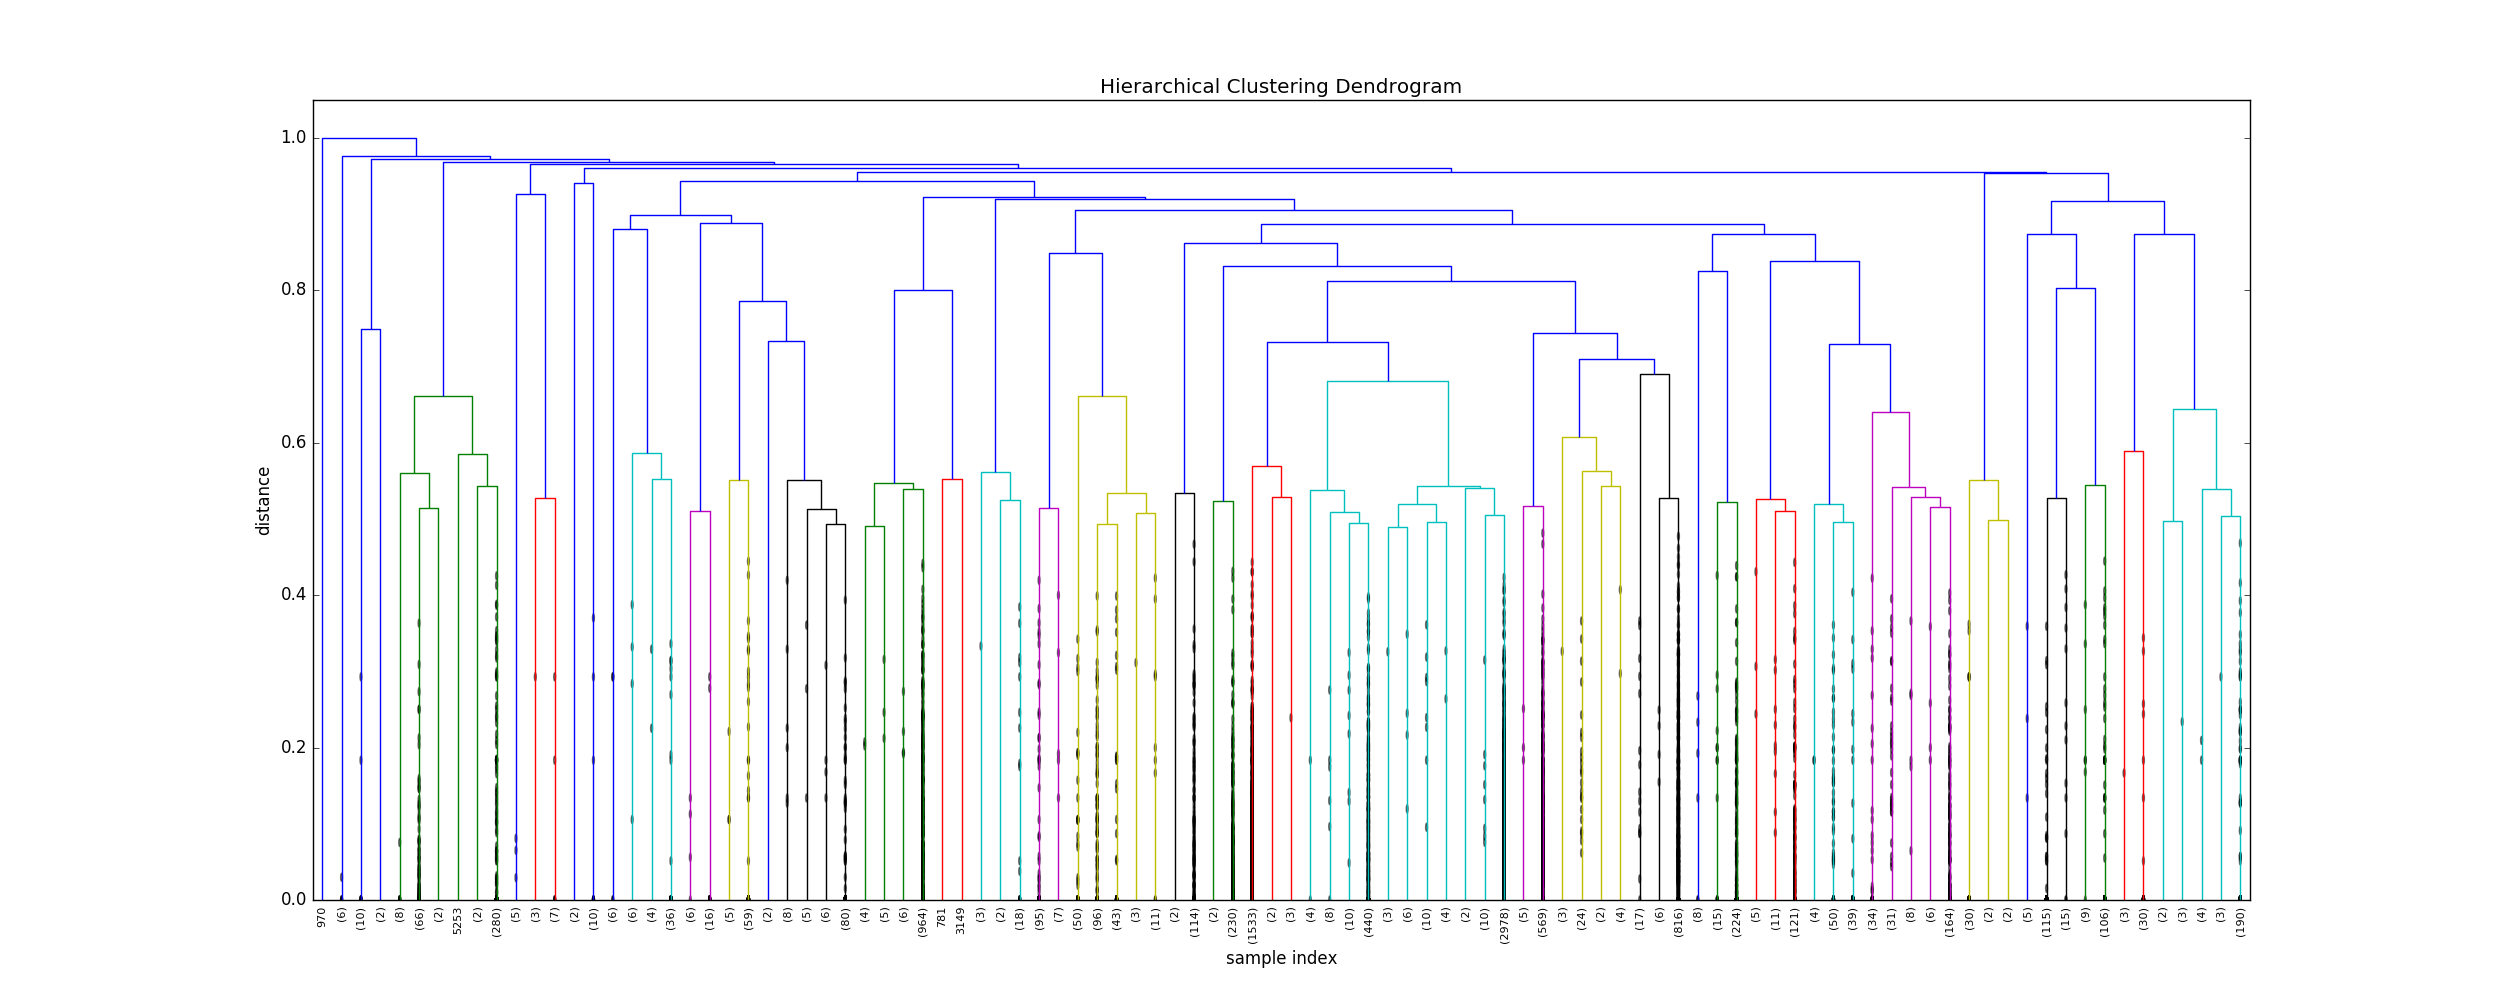
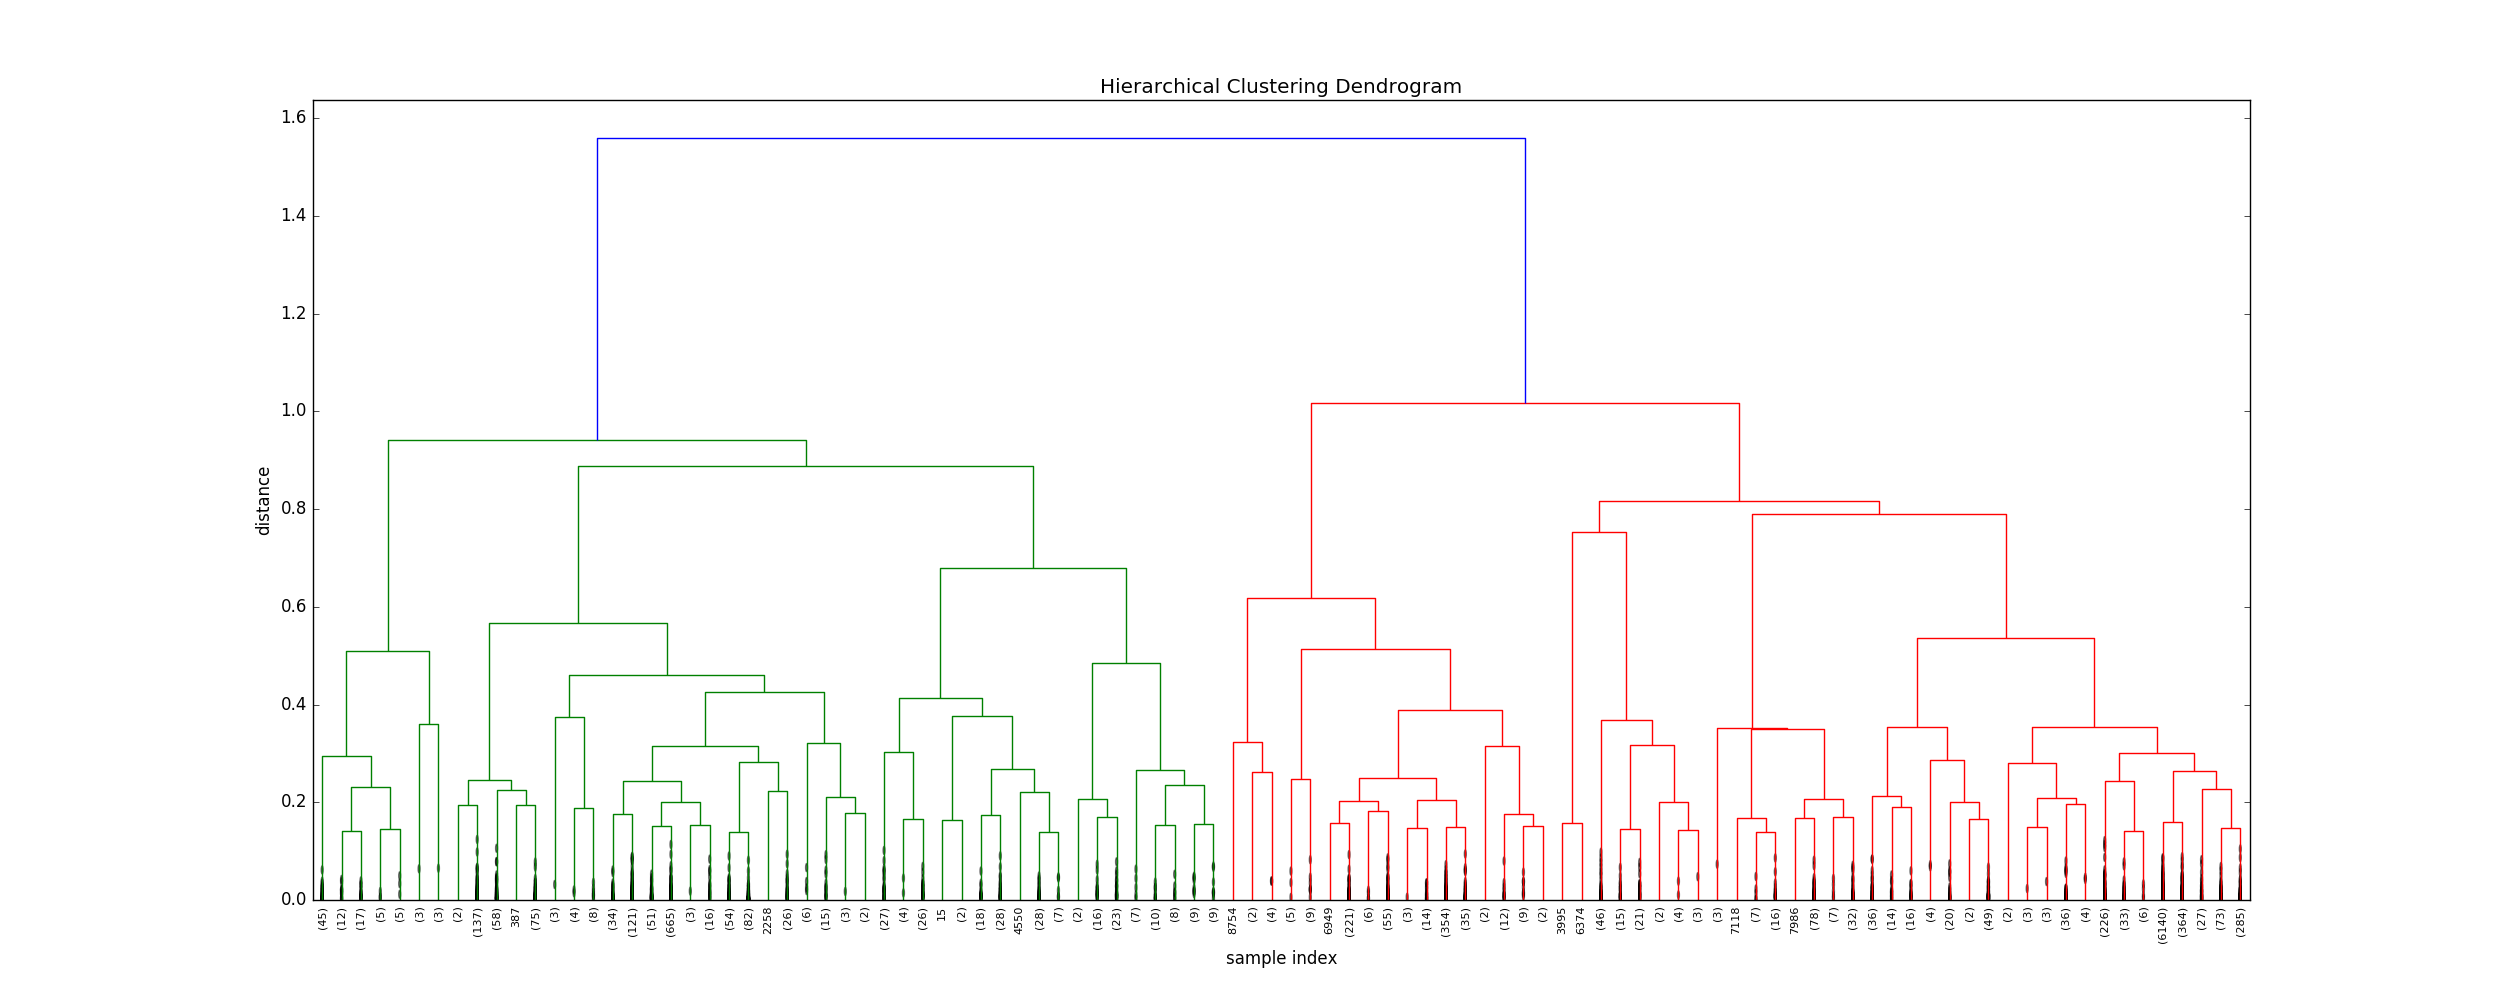
Added PCA, run PCA with 5 components.

diff --git a/AlgorithmManager.py b/AlgorithmManager.py
@@ -1,6 +1,7 @@
 import warnings
 warnings.filterwarnings('ignore', 'numpy not_equal will not check object identity in the future')
 from sklearn.cluster import KMeans
+from sklearn.decomposition import PCA
 #from sklearn.cluster import AgglomerativeClustering as hc
 from sklearn.metrics import silhouette_samples, silhouette_score
 from time import clock
@@ -240,22 +241,45 @@ class AlgorithmManager(object):
         print('Correct: {}'.format(correct))
         print('Accuracy: {}'.format(float(correct)/float(len(test)-batch_size-1)))
 
+    def runPCA(self,data, n_components='mle', plot=False):
+        pca = PCA(n_components, copy=True)
+        # Plot the PCA spectrum
+        print "Running PCA"
+        startTime = clock()
+        new_data = pca.fit_transform(data)
+        print "finished running after {0} secs".format(clock()-startTime)
+        if plot!=False:
+            plt.figure(1, figsize=(4, 3))
+            plt.clf()
+            plt.axes([.2, .2, .7, .7])
+            plt.plot(pca.explained_variance_, linewidth=2)
+            plt.axis('tight')
+            plt.xlabel('n_components')
+            plt.ylabel('explained_variance_')
+        return new_data
     '''
         Runs K means on the Dataset
         Goes over K=2:5 and checks the performance using slihouette
     '''
-    def runKMeans(self, pivot, file = False, normalize = False, factor = 100):
+    def runKMeans(self, pivot, file = False, normalize = False, factor = 100, n_components=False):
         
         # Preparing the data : loading, normalizing (if selected) and selecting 100k record randomly.
         data = self.loadOperationsByOneOfK(False, pivot, normalize, factor)
         np.random.shuffle(data)
         #data = data[1:50000,:] # Higher amount of vectors cause memory error on silhouette_score
-        
+
         # Preparing the data to compare, creating an average vector of the pivots.
-        avgVec = np.mean(data,axis = 0)        
-        fid = open(file, 'w')
-        np.set_printoptions(precision=3,suppress = True) # Prettier printing.
-        fid.write(str(avgVec))
+        if file!= False:
+            avgVec = np.mean(data,axis = 0)        
+            fid = open(file, 'w')
+            np.set_printoptions(precision=3,suppress = True) # Prettier printing.
+            fid.write(str(avgVec))
+
+        if n_components != False:
+            data = self.runPCA(data,n_components)
+
+        
+        
 
         for n_clusters in range(2,25):
             print "Running KMeans on {0} Clusters".format(n_clusters)
@@ -288,7 +312,11 @@ class AlgorithmManager(object):
             
             #fid.write("For {0} clusters the average silhouette score is : {1}".format(n_clusters, silhouette_avg))
 
-    def runHierarchicalClustering(self,file,pivot='Aid',normalize=False,factor=100):        
+    '''
+        Runs Hirarchical Clustering on the Dataset,
+        Creating a Dendrogram visualizing the clustering process for further analysis.
+    '''
+    def runHierarchicalClustering(self,file,n_clusters=2, pivot='Aid',normalize=False,factor=100, n_components=False):        
         print 'Running hierarchical clustering'
 
         # Preparing the data : loading, normalizing (if selected) and selecting 100k record randomly.
@@ -303,47 +331,31 @@ class AlgorithmManager(object):
             np.set_printoptions(precision=3,suppress = True) # Prettier printing.
             fid.write(str(avgVec))
 
-        for n_clusters in range(2,3):  
-            # Compute clustering           
-            print("Running hierarchical clustering for {0} clusters".format(n_clusters))
-            st = clock()
-            ward = linkage(data, 'average', metric = 'cosine')
-
-            # calculate the dendrogram
-            plt.figure(figsize=(25, 10))
-            plt.title('Hierarchical Clustering Dendrogram')
-            plt.xlabel('sample index')
-            plt.ylabel('distance')
-            dendrogram(
-                ward,
-                leaf_rotation=90.,  # rotates the x axis labels
-                leaf_font_size=8.,  # font size for the x axis labels
-                truncate_mode='lastp',  # show only the last p merged clusters
-                p=100,  # show only the last p merged clusters
-                show_leaf_counts=True,  # False = numbers in brackets are counts               
-                show_contracted=True,  # to get a distribution impression in truncated branches
-            )
-            plt.savefig("plot{0}{1}.png".format(pivot,n_clusters))
-            '''
-            ward = hc(n_clusters, linkage='ward').fit(data)
-            elapsed_time = clock() - st
-            label = ward.labels_
-
-            for i in range(n_clusters):
-                cluster_i_size = 0
-                for val in label:
-                    if val == i:
-                        cluster_i_size = cluster_i_size + 1
-                if file != False:               
-                    fid.write("\nThe size of cluster {0} is {1}".format(i,cluster_i_size))
-                else
-                    print("\nThe size of cluster {0} is {1}".format(i,cluster_i_size))
-
-            if file != False:
-                #fid.write("\nThe inertia is {0}\n\n".format(clusterer.inertia_))
-                fid.write("\n")           
-                fid.write("\n\n")
-            '''
+        if n_components != False:
+            data = self.runPCA(data,n_components)
+         
+        # Compute clustering           
+        print("Running hierarchical clustering for {0} clusters".format(n_clusters))
+        startTime = clock()
+        ward = linkage(data, 'average', metric = 'cosine')
+        print("finished running after {0} secs".format(clock()-startTime))
+        # calculate the dendrogram
+        plt.figure(figsize=(25, 10))
+        plt.title('Hierarchical Clustering Dendrogram')
+        plt.xlabel('sample index')
+        plt.ylabel('distance')
+        dendrogram(
+            ward,
+            leaf_rotation=90.,  # rotates the x axis labels
+            leaf_font_size=8.,  # font size for the x axis labels
+            truncate_mode='lastp',  # show only the last p merged clusters
+            p=100,  # show only the last p merged clusters
+            show_leaf_counts=True,  # False = numbers in brackets are counts               
+            show_contracted=True,  # to get a distribution impression in truncated branches
+            count_sort = 'descendent',
+            distance_sort = False
+        )
+        plt.savefig("plot{0}{1}attempt.png".format(pivot,n_clusters))        
 
     '''
         Utility function for clustering.

diff --git a/main.py b/main.py
@@ -13,9 +13,10 @@ nadavfile = "attempt2.txt"
 
 dataManager = DataManager(liorDir)
 algorithmManager = AlgorithmManager(dataManager)
-#algorithmManager.runHierarchicalClustering(file="HierarchicalClusteringAttempt1.txt", normalize = False)
-algorithmManager.runHierarchicalClustering(pivot='Sid', file=False, normalize = False)
-
+#algorithmManager.runHierarchicalClustering(file="HierarchicalClusteringAttempt1.txt", normalize = False,n_components=5)
+#algorithmManager.runHierarchicalClustering(pivot='Sid', file=False, normalize = False,n_components = 5)
+#data = algorithmManager.loadOperationsByOneOfK(False, pivot="Aid", normalize=False)
+#algorithmManager.runPCA(data,n_components=5,plot=True)
 '''
     Trying to recover the ndarray
 
@@ -29,15 +30,15 @@ vects = np.fromfile(nadavfile, dtype = AidArray)
 print "\n\n\n The data recovered:\n\n"
 print(vects[1:10])
 '''
-'''
-algorithmManager.runKMeans(pivot = 'Aid', file="AidcentersNoSil1.txt", normalize = False)
-algorithmManager.runKMeans(pivot = 'Aid', file="AidcentersNoSil2.txt", normalize = True)
-algorithmManager.runKMeans(pivot = 'Sid', file="SidcentersNoSil3.txt", normalize = False)
-algorithmManager.runKMeans(pivot = 'Sid', file="SidcentersNoSil4.txt", normalize = True)
-'''
+
+#algorithmManager.runKMeans(pivot = 'Aid', file="AidcentersNoSil1.txt", normalize = False)
+#algorithmManager.runKMeans(pivot = 'Aid', file="AidcentersNoSil2.txt", normalize = True)
+#algorithmManager.runKMeans(pivot = 'Sid', file="SidcentersNoSil3.txt", normalize = False)
+algorithmManager.runKMeans(pivot = 'Sid', file="SidcentersAfterPCA1.txt", normalize = False,n_components=5)
+
 #algorithmManager.displayAidBySid()
 #algorithmManager.displayCountByQueryName()
-algorithmManager.displaySidAndQueryName();
+#algorithmManager.displaySidAndQueryName();
 #algorithmManager.displayGraph()
 #algorithmManager.runKMeans()
 

diff --git a/DataManager.py b/DataManager.py
@@ -140,11 +140,7 @@ class MultiColumnLabelEncoder(LabelEncoder):
                 dframe.loc[:, column] = self.all_encoders_[idx]\
                     .inverse_transform(dframe.loc[:, column].values)
         return dframe
-    '''
-    def oneOfK(dframe):
-    dframe.queryName.nunique()
-    dframe = DataManager.loadData(
-    '''
+    
 class DataManager(object):
     
     '''
